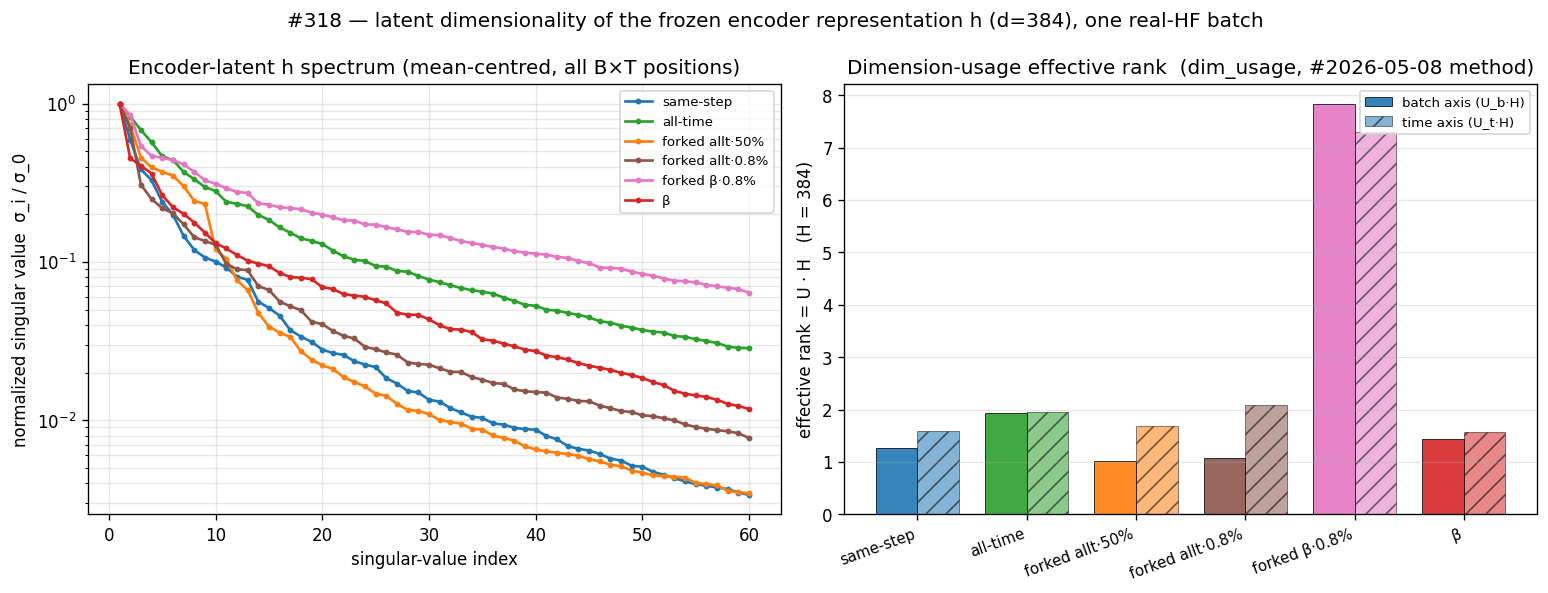
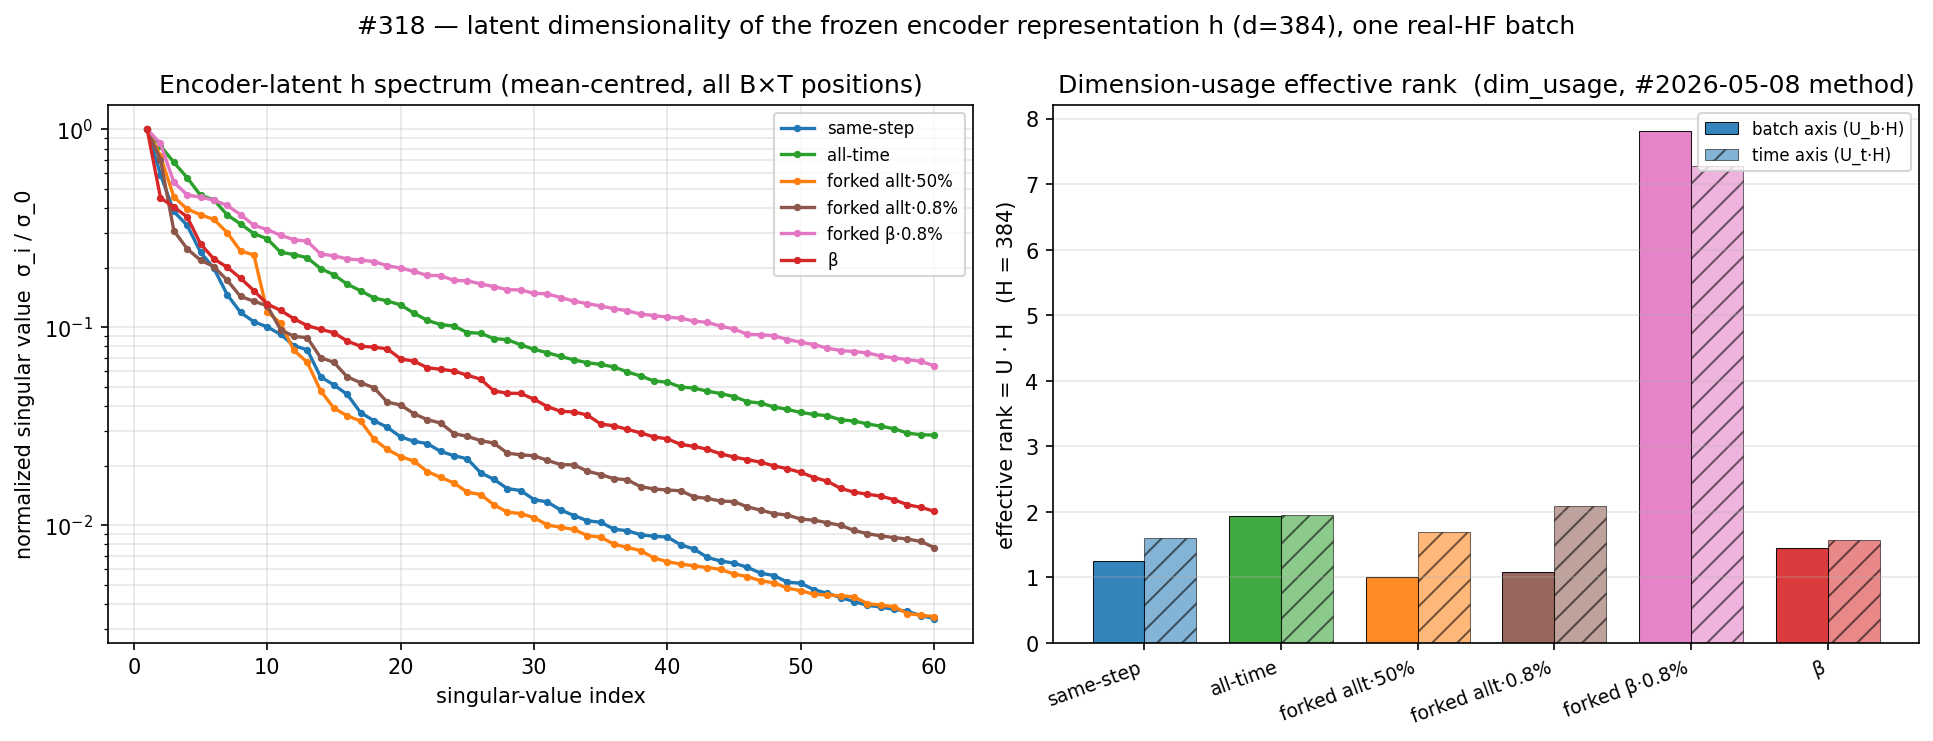
plot+docs(#318): radar readability — cap radial axis, shade-first, best-seed line
- Radar: cap the radial axis at 2.8 so the inner cluster (median ≈1.4) fills the
  disk instead of being squashed by all-time's lone Econ/Fin spike (≈3.5, now clips
  at the rim). Tighter figure + legend.
- Radar bands: draw the two seed-shaded arms (β red, β·10% cyan) FIRST as a soft
  alpha background, then one normalised-width line at the better of the two seeds on
  top (was a heavy mid-line + two faint per-seed lines) — readable per request.
- latent_dim: bump dpi 120→150 (refresh; labels were already 0.8%, values unchanged).
- Text: trim caption/prose that paraphrased the figures/tables (radar band-width
  description, the fork-effect clause already in the verdict, the second-seed numbers
  already in the verdict + annex).

diff --git a/experiments/2026-05-23_xseries_hh/scripts/plots.py b/experiments/2026-05-23_xseries_hh/scripts/plots.py
@@ -352,17 +352,17 @@ def plot_perdomain():
     ]
 
     def best_profile(heads):
-        """(best_head, {domain: gm relative}) for the lowest-full-97 head, or None."""
+        """(best_head, {domain: gm relative}, aggregate) for the lowest-full-97 head."""
         cand = [(g, h, st) for h, st in heads.items() if (g := agg_gm(st))]
         if not cand:
             return None
-        _, best_h, st = min(cand)
+        agg, best_h, st = min(cand)
         byd = {}
         for cfg, r in per_config_relative(st).items():
             byd.setdefault(dom_map.get(cfg, "?"), []).append(r)
-        return best_h, {d: gm(v) for d, v in byd.items()}
+        return best_h, {d: gm(v) for d, v in byd.items()}, agg
 
-    # series: (tag, colour, list[(head,{dom:val})]) — 1 entry=line, 2 entries=band.
+    # series: (tag, colour, list[(head,{dom:val},agg)]) — 1 entry=line, 2 entries=band.
     series = []
     for lab, c, seeds in arms:
         profs = [p for p in (best_profile(s) for s in seeds) if p]
@@ -373,46 +373,50 @@ def plot_perdomain():
         elif len(profs) == 1:
             tag = f"{lab} ({profs[0][0]})"
         else:                                            # banded multi-seed arm
-            tag = f"{lab} ({'/'.join(p[0] for p in profs)}, 2 seeds)"
+            tag = f"{lab} ({'/'.join(p[0] for p in profs)} · 2 seeds)"
         series.append((tag, c, profs))
     if not series:
         print("perdomain: no data yet — skip")
         return
-    doms = sorted({d for _, _, profs in series for _, m in profs for d in m})
+    doms = sorted({d for _, _, profs in series for _, m, _ in profs for d in m})
     ang = np.linspace(0, 2 * np.pi, len(doms), endpoint=False)
     ang_c = np.concatenate([ang, ang[:1]])
-    fig, ax = plt.subplots(figsize=(9.5, 8), subplot_kw=dict(polar=True))
-    rmax = max(v for _, _, profs in series for _, m in profs for v in m.values())
-    # Draw single-seed "context" arms first (thin, lightly muted), then the two
-    # banded multi-seed arms on top so the headline seed comparison stays readable
-    # in the crowded centre. Thin lines, no markers — 9 arms + markers is a mess.
+    fig, ax = plt.subplots(figsize=(8.4, 7.2), subplot_kw=dict(polar=True))
+    # Radial cap. The inner cluster (median ≈ 1.4) is the comparison; all-time's
+    # Econ/Fin spike (≈ 3.5) alone would stretch the axis and squash everything into
+    # the centre. Cap at 2.8 so the cluster fills the radius — only that one value
+    # clips at the rim (noted in the report caption).
+    RCAP = 2.8
     singles = [s for s in series if len(s[2]) == 1]
     banded = [s for s in series if len(s[2]) == 2]
-    for tag, c, profs in singles:
-        lw = 1.8 if tag == "v11c" else 1.2
-        _, m = profs[0]
-        v = [m.get(d, np.nan) for d in doms]
-        ax.plot(ang_c, v + v[:1], "-", color=c, lw=lw, alpha=0.8, label=tag, zorder=3)
-    for tag, c, profs in banded:                         # seed band, drawn on top
+    # (1) Shaded seed bands FIRST — a soft background the line curves read on top of.
+    for tag, c, profs in banded:
         lo = np.array([min(profs[0][1].get(d, np.nan), profs[1][1].get(d, np.nan)) for d in doms])
         hi = np.array([max(profs[0][1].get(d, np.nan), profs[1][1].get(d, np.nan)) for d in doms])
         ax.fill_between(ang_c, np.append(lo, lo[0]), np.append(hi, hi[0]),
-                        color=c, alpha=0.28, lw=0, zorder=4)
-        for _, m in profs:                               # each seed faint
-            v = [m.get(d, np.nan) for d in doms]
-            ax.plot(ang_c, v + v[:1], "-", color=c, lw=0.9, alpha=0.5, zorder=5)
-        mid = (lo + hi) / 2.0                             # bold mid line carries label
-        ax.plot(ang_c, np.append(mid, mid[0]), "-", color=c, lw=2.4, alpha=0.98, label=tag, zorder=6)
-    ax.plot(np.linspace(0, 2 * np.pi, 200), [1.0] * 200, "--", color="k", lw=1.0, alpha=0.6)
+                        color=c, alpha=0.22, lw=0, zorder=1)
+    ax.plot(np.linspace(0, 2 * np.pi, 200), [1.0] * 200, "--", color="k", lw=1.0, alpha=0.6, zorder=2)
+    # (2) Single-seed context arms.
+    for tag, c, profs in singles:
+        lw = 1.8 if tag == "v11c" else 1.2
+        _, m, _ = profs[0]
+        v = [m.get(d, np.nan) for d in doms]
+        ax.plot(ang_c, v + v[:1], "-", color=c, lw=lw, alpha=0.85, label=tag, zorder=3)
+    # (3) Banded arms: ONE normalised-width line at the BEST of the two seeds, on top
+    #     (the shaded band already carries the seed spread).
+    for tag, c, profs in banded:
+        _, m, _ = min(profs, key=lambda p: p[2])         # lowest-aggregate (best) seed
+        v = [m.get(d, np.nan) for d in doms]
+        ax.plot(ang_c, v + v[:1], "-", color=c, lw=1.7, alpha=0.95, label=tag, zorder=5)
     ax.set_rscale("log")
-    ax.set_rlim(0.75, rmax * 1.12)
+    ax.set_rlim(0.78, RCAP)
     ax.set_xticks(ang); ax.set_xticklabels(doms, fontsize=9)
     ax.set_rlabel_position(95)
     ax.set_title("#318 — per-domain GM-Relative MASE (full-97, best q-head per arm · log radial)\n"
-                 "lower = better; dashed ring = seasonal-naive (1.0); shaded = seed-1↔seed-2 spread", fontsize=10.5, pad=28)
-    ax.legend(fontsize=7.5, loc="upper right", bbox_to_anchor=(1.36, 1.13))
+                 "lower = better; dashed ring = seasonal-naive (1.0); shade = seed-1↔seed-2 spread", fontsize=10, pad=16)
+    ax.legend(fontsize=7.5, loc="upper right", bbox_to_anchor=(1.19, 1.10))
     fig.tight_layout()
-    fig.savefig(f"{PLOTS}/perdomain.png", dpi=130, bbox_inches="tight")
+    fig.savefig(f"{PLOTS}/perdomain.png", dpi=140, bbox_inches="tight")
     print("perdomain.png written (radar, all arms, best head per arm; 2 banded seeds)")
     plt.close(fig)
 

diff --git a/experiments/2026-05-23_xseries_hh/scripts/latent_dim.py b/experiments/2026-05-23_xseries_hh/scripts/latent_dim.py
@@ -245,7 +245,7 @@ def main() -> None:
         "(d=384), one real-HF batch", fontsize=12)
     fig.tight_layout()
     out = PLOTS / "latent_dim.png"
-    fig.savefig(out, dpi=120, bbox_inches="tight")
+    fig.savefig(out, dpi=150, bbox_inches="tight")
     plt.close(fig)
     print(f"saved {out}")
 

diff --git a/experiments/2026-05-23_xseries_hh/RESULTS.md b/experiments/2026-05-23_xseries_hh/RESULTS.md
@@ -39,14 +39,14 @@ configs), right triage-11 (11 fixed configs). β·10% is the only arm to beat β
 above v11c, so that match is seed-fragile. Per-arm numbers: [scoreboard](#scoreboard).*
 
 A 6L q-head rescues no loss-side arm — the regression points to the backbone, not
-the readout; the fork's effect depends on both the loss and the injection fraction.
+the readout.
 
 ![per-domain radar](plots/perdomain.png)
 *Per-domain, every arm at its best q-head (log radial; dashed ring = seasonal-naive
-1.0; innermost = best). Shaded bands = seed-1↔seed-2 spread for the two multi-seed
-arms (β·10% cyan, β red). Loss-side arms bulge outward (all-time spikes on Econ/Fin;
-no seasonal signature); β·10% sits with β and v11c in the inner cluster — its band
-is narrow except on Econ/Fin (6 noisy configs).*
+1.0; innermost = best). For the two multi-seed arms (β·10% cyan, β red) the shade
+spans both seeds and the line marks the better one. β·10% sits with β and v11c in the
+inner cluster; loss-side arms bulge outward, worst on Econ/Fin (all-time's 3.5 clips
+at the rim).*
 
 ![training dynamics](plots/training_curves.png)
 *Log–log, warm-up (< 1000 steps) cropped. Loss − InfoNCE floor; gap-ratio
@@ -65,11 +65,11 @@ not the fork alone. Rank does not order transfer (table in annex).*
 
 ### Second seed — sign reproduces, magnitude doesn't pin down
 
-β·10% beats β at **all four** seed × head cells — the gain's *sign* reproduces. Its
-*magnitude* does not pin down: GMs swing ≫ ±0.02 across seeds, so the single-seed
-β·10%·6L = v11c (1.2889) does not survive (1.3271 at seed 2). Follow-ups: a third
-seed to tighten the magnitude; a 50% *unforked*-synthetic control to isolate the fork
-from the synthetic-data fraction ([table](#second-seed-seed-20260521)).
+β·10% beats β at **all four** seed × head cells (sign reproduces), but the magnitude
+does not: GMs swing ≫ ±0.02 across seeds, so the single-seed β·10%·6L = v11c does not
+survive ([table](#second-seed-seed-20260521)). Follow-ups: a third seed to tighten the
+magnitude; a 50% *unforked*-synthetic control to isolate the fork from the
+synthetic-data fraction.
 
 ## Protocol
 
